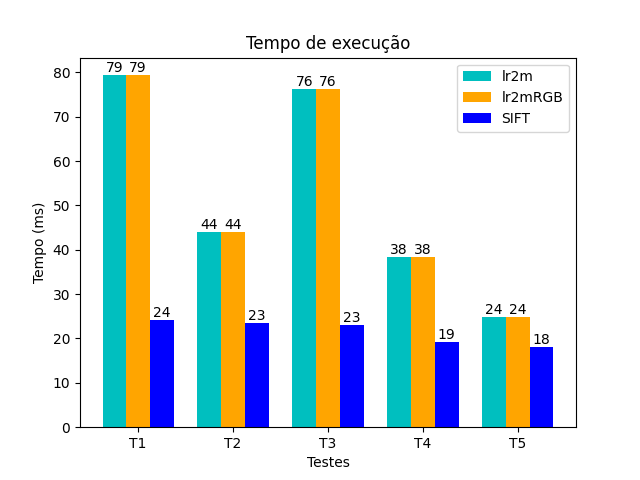
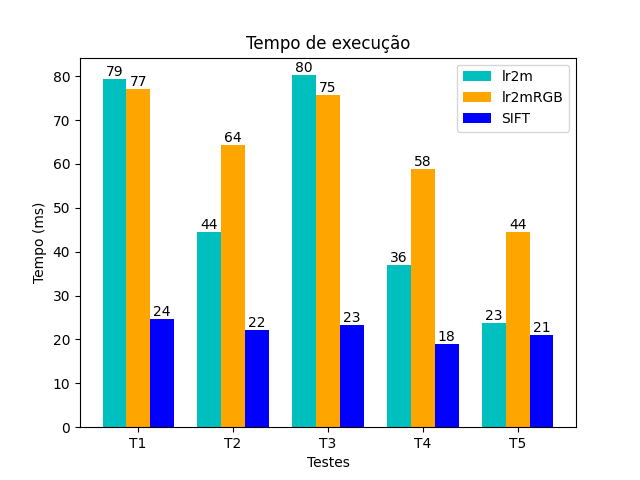
corrigindo geração do gráfico

diff --git a/main.py b/main.py
@@ -66,4 +66,4 @@ print(lr2m_times)
 print(lr2mRGB_times)
 print(SIFT_times)
 
-plot.plot_graph(lr2m_times, lr2m_times, SIFT_times, len(lr2m_times))
+plot.plot_graph(lr2m_times, lr2mRGB_times, SIFT_times, len(lr2m_times))
